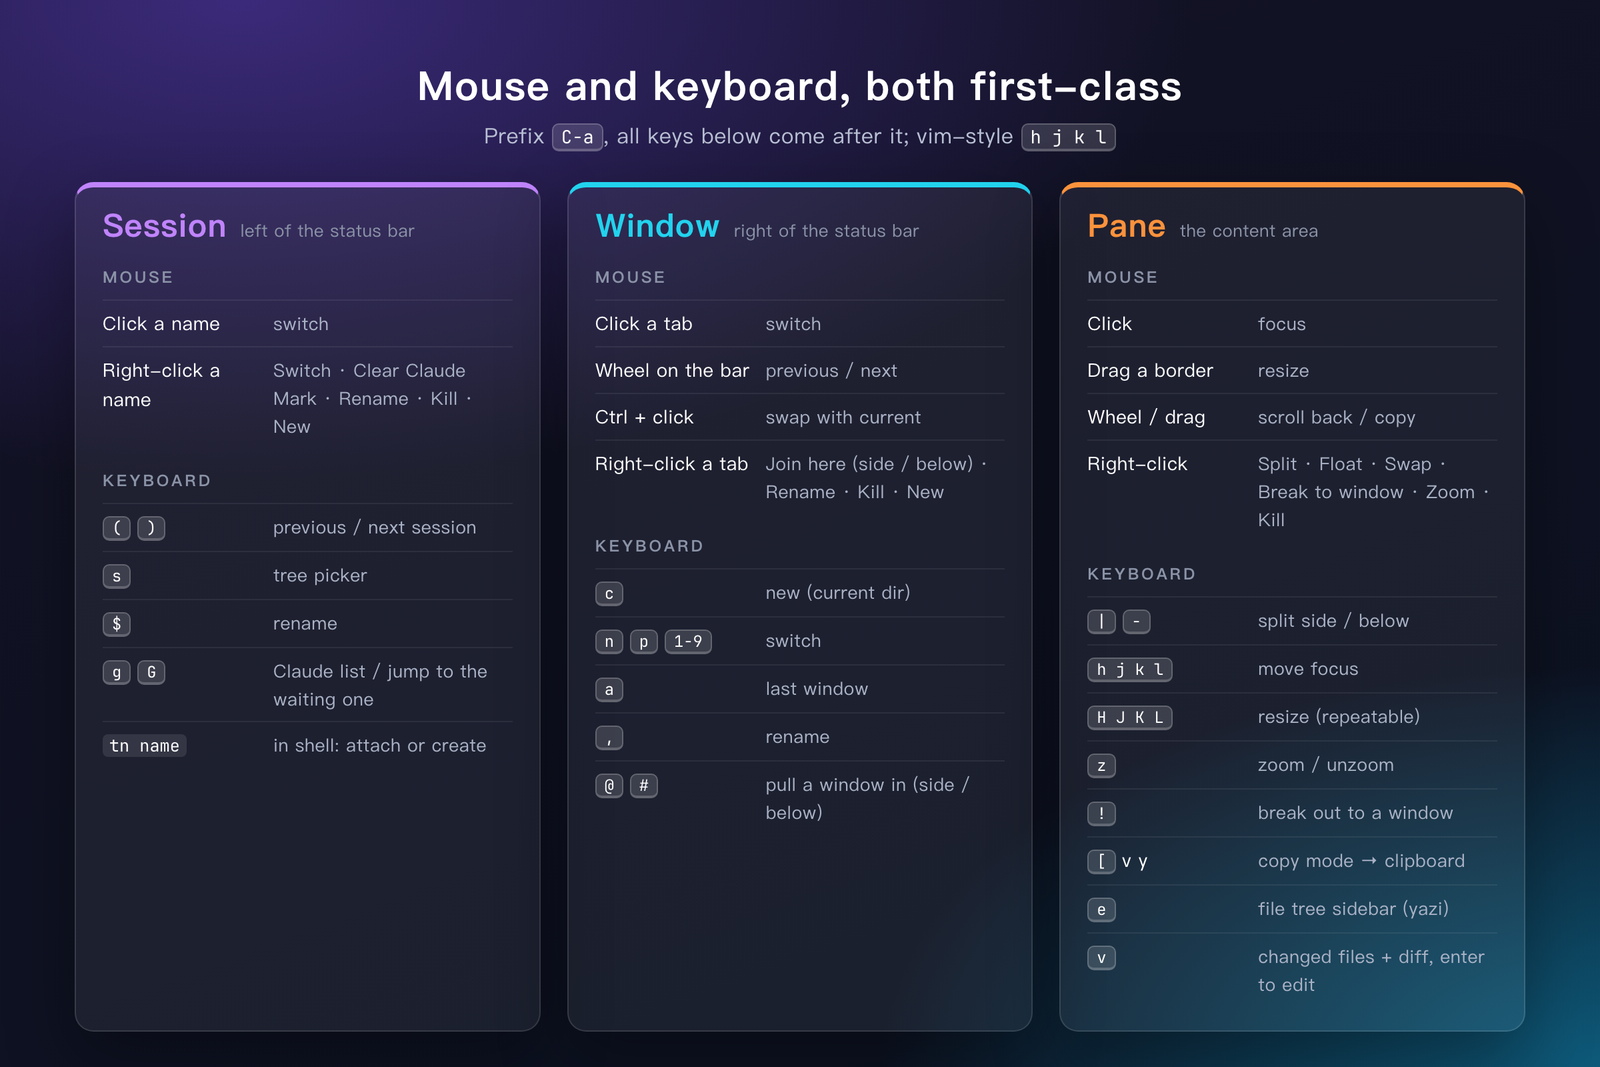
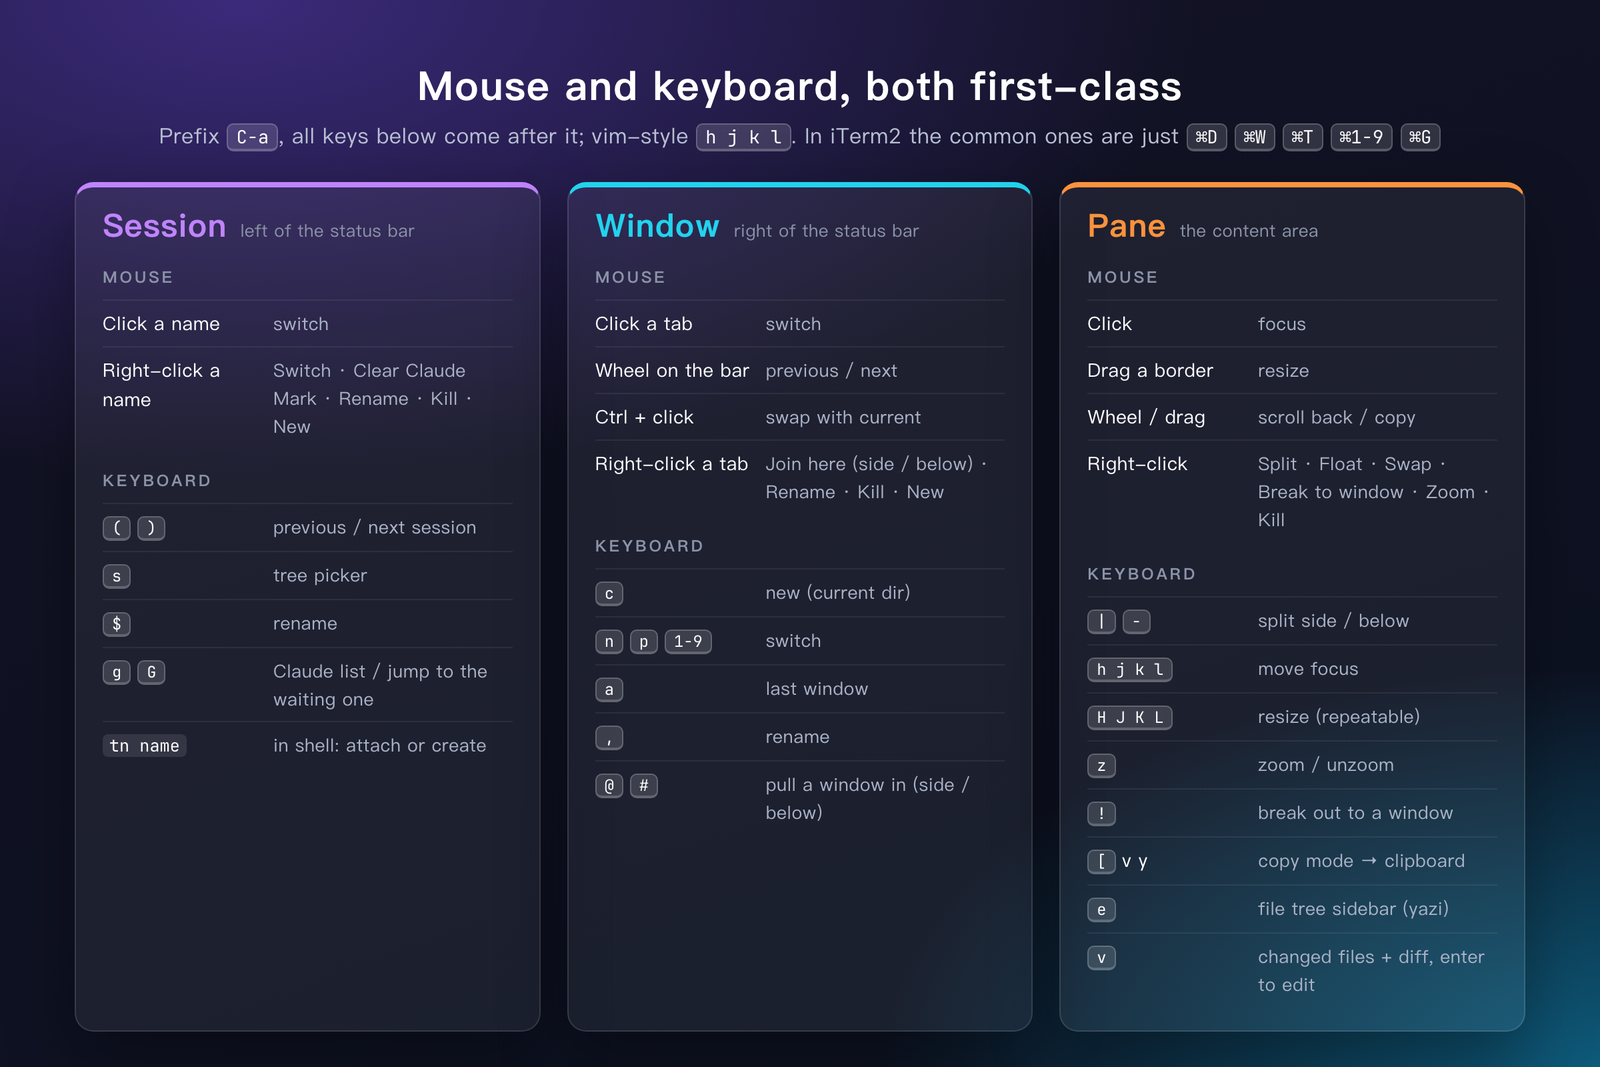
Cmd shortcuts in iTerm2, smarter prefix x
- Moshi Dark Keyboard Map: Cmd+D/Shift+D split, Cmd+W close, Cmd+T new window,
  Cmd+1-9, Cmd+Option+arrows, Cmd+Shift+Enter zoom, Cmd+G/Shift+G Claude
  (each sends C-a + key)
- prefix x: idle shell closes right away; otherwise confirm with x
- README (en/zh) table and keys image mention the Cmd shortcuts

Changed region(s): [[0.0938, 0.0928, 0.9062, 0.1546]]

diff --git a/docs/src/scene.html b/docs/src/scene.html
@@ -217,7 +217,7 @@ if(scene==='keys'){
   const col=(cls,title,sub,mouse,keys)=>`<div class="kc ${cls}"><div class="kh"><span class="kt">${title}</span><span class="ks">${sub}</span></div>
     <div class="kg">${T('鼠标','Mouse')}</div><ul>${mouse.join('')}</ul><div class="kg">${T('键盘','Keyboard')}</div><ul>${keys.join('')}</ul></div>`;
   html=`<div class="stage" style="width:1200px;height:800px">
-    <div class="head"><h1>${T('键鼠都顺手','Mouse and keyboard, both first-class')}</h1><p>${T('前缀 ','Prefix ')}${K('C-a')}${T('，下面的键都在前缀之后按；方向键用 vim 的 ',', all keys below come after it; vim-style ')}${K('h j k l')}</p></div>
+    <div class="head"><h1>${T('键鼠都顺手','Mouse and keyboard, both first-class')}</h1><p>${T('前缀 ','Prefix ')}${K('C-a')}${T('，下面的键都在前缀之后按；方向键用 vim 的 ',', all keys below come after it; vim-style ')}${K('h j k l')}${T('。常用的在 iTerm2 里直接按 ','. In iTerm2 the common ones are just ')}${K('⌘D')} ${K('⌘W')} ${K('⌘T')} ${K('⌘1-9')} ${K('⌘G')}</p></div>
     <div class="kcs">
     ${col('cs','Session',T('状态栏左侧','left of the status bar'),[
       li(T('左键点名字','Click a name'),T('切换','switch')),

diff --git a/SKILL.md b/SKILL.md
@@ -112,6 +112,8 @@ vim-plug 管理：vim-sensible、NERDTree、commentary、surround、repeat、fug
   - 边距 左右 14 / 上下 8；无限回滚；开启 Mouse Reporting（tmux 鼠标需要）；Terminal Type `xterm-256color`。
 - 全局：主题 Minimal（`TabStyleWithAutomaticOption=5`）、单 tab 隐藏 tab bar、隐藏滚动条、允许剪贴板访问（OSC 52）、关闭按住弹重音。
 - 指针动作（plist `PointerActions`，均为 iTerm2 默认，未纳入脚本）：右键=上下文菜单、中键=粘贴、三指左右切 tab、上下切窗口。
+- Cmd 免前缀：Moshi Dark profile 的 `Keyboard Map`（Action 11 = Send Hex Code，发 `0x01` + tmux 键；键名格式 `0x字符-0x修饰键`，Cmd=0x100000、Shift=0x20000、Option=0x80000，方向键另加 NumPad 0x200000）：⌘D/⌘⇧D 分屏、⌘W 关 pane、⌘T 新 window、⌘1-9、⌘⌥方向键切 pane、⌘⇧Enter 放大、⌘G/⌘⇧G Claude 列表/跳转。Dynamic Profile 改了会自动重载，不用重启 iTerm2。
+- `prefix x`（⌘W）：前台是 zsh/bash/sh/fish 直接 kill-pane，否则 `confirm-before -c x` 再按 x 确认；用 shell 白名单而不是程序名，因为 Claude Code 的进程名是版本号。
 - tmux -CC：tmux window 以 tab 打开、不自动隐藏 client session、不用专用 profile、不同步剪贴板、不暂停警告、不用 iTerm 状态栏。
 
 ## 修改配置的工作流

diff --git a/README.md b/README.md
@@ -33,6 +33,20 @@ The rules behind it:
 
 Prefix is `C-a`. Movement uses vim's `h j k l`. Splits open in the current directory.
 
+**Skip the prefix in iTerm2.** The most frequent actions are mapped to Cmd keys in the Moshi Dark profile; iTerm2 sends `C-a` + key for you. Cmd never reaches terminal programs, so these don't clash with the shell, vim or Claude Code.
+
+| Keys | Action | Same as |
+|---|---|---|
+| `Cmd+D` / `Cmd+Shift+D` | split side / below | `C-a \|` / `C-a -` |
+| `Cmd+W` | close pane: an idle shell closes right away; if something is running (claude, vim, ssh…) press `x` again to confirm, any other key cancels | `C-a x` |
+| `Cmd+T` | new window | `C-a c` |
+| `Cmd+1…9` | go to window N | `C-a 1…9` |
+| `Cmd+Option+←↓↑→` | move between panes | `C-a h/j/k/l` |
+| `Cmd+Shift+Enter` | zoom / unzoom pane | `C-a z` |
+| `Cmd+G` / `Cmd+Shift+G` | Claude list / jump to the one waiting longest | `C-a g` / `C-a G` |
+
+Less frequent actions keep the prefix. `Cmd+G` replaces iTerm2's "Find Next"; search with tmux copy mode instead.
+
 ### Panes ⇄ windows
 
 ![Right-click menus](docs/img/en/menus.png)

diff --git a/README.zh-CN.md b/README.zh-CN.md
@@ -33,6 +33,20 @@
 
 前缀是 `C-a`。移动焦点用 vim 的 `h j k l`。分屏会继承当前目录。
 
+**iTerm2 里免按前缀。** 最常用的操作在 Moshi Dark profile 里映射成了 Cmd 键，由 iTerm2 替你发 `C-a` + 键。Cmd 键不会传给终端里的程序，所以不会和 shell、vim、Claude Code 抢键。
+
+| 按键 | 作用 | 等价于 |
+|---|---|---|
+| `Cmd+D` / `Cmd+Shift+D` | 左右 / 上下分屏 | `C-a \|` / `C-a -` |
+| `Cmd+W` | 关闭 pane：空闲 shell 直接关；有程序在跑（claude、vim、ssh…）时再按一次 `x` 确认，按别的键取消 | `C-a x` |
+| `Cmd+T` | 新 window | `C-a c` |
+| `Cmd+1…9` | 切到第 N 个 window | `C-a 1…9` |
+| `Cmd+Option+←↓↑→` | 切换 pane | `C-a h/j/k/l` |
+| `Cmd+Shift+Enter` | 放大 / 还原 pane | `C-a z` |
+| `Cmd+G` / `Cmd+Shift+G` | Claude 列表 / 跳到最早等你的 | `C-a g` / `C-a G` |
+
+低频操作继续用前缀。`Cmd+G` 占用了 iTerm2 的“查找下一个”，搜索改用 tmux 的复制模式。
+
 ### pane ⇄ window 互转
 
 ![右键菜单](docs/img/zh/menus.png)
